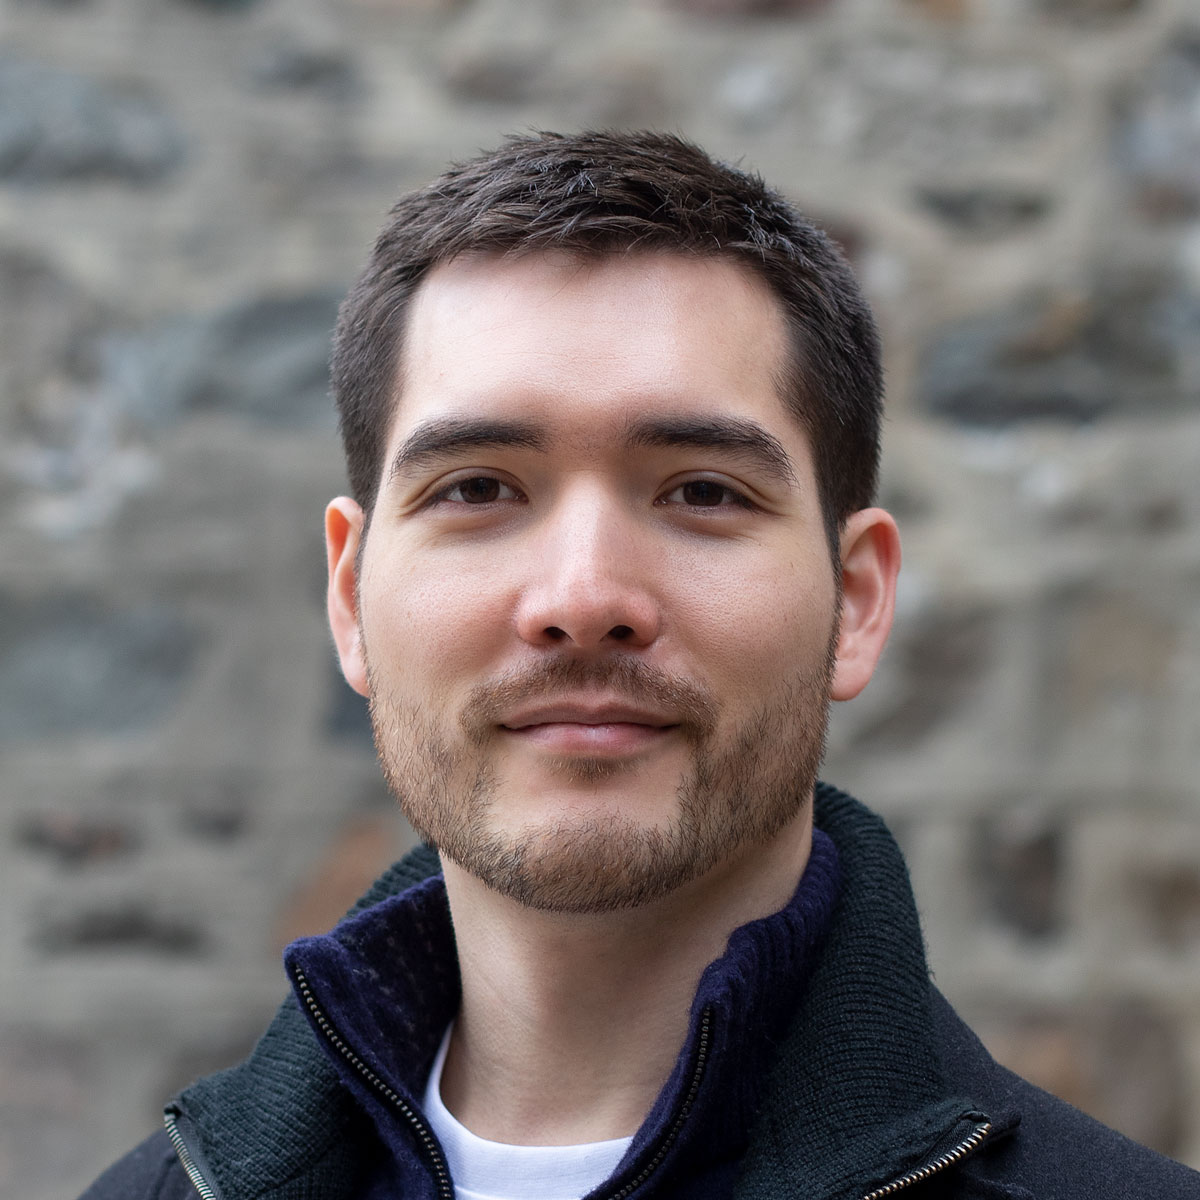
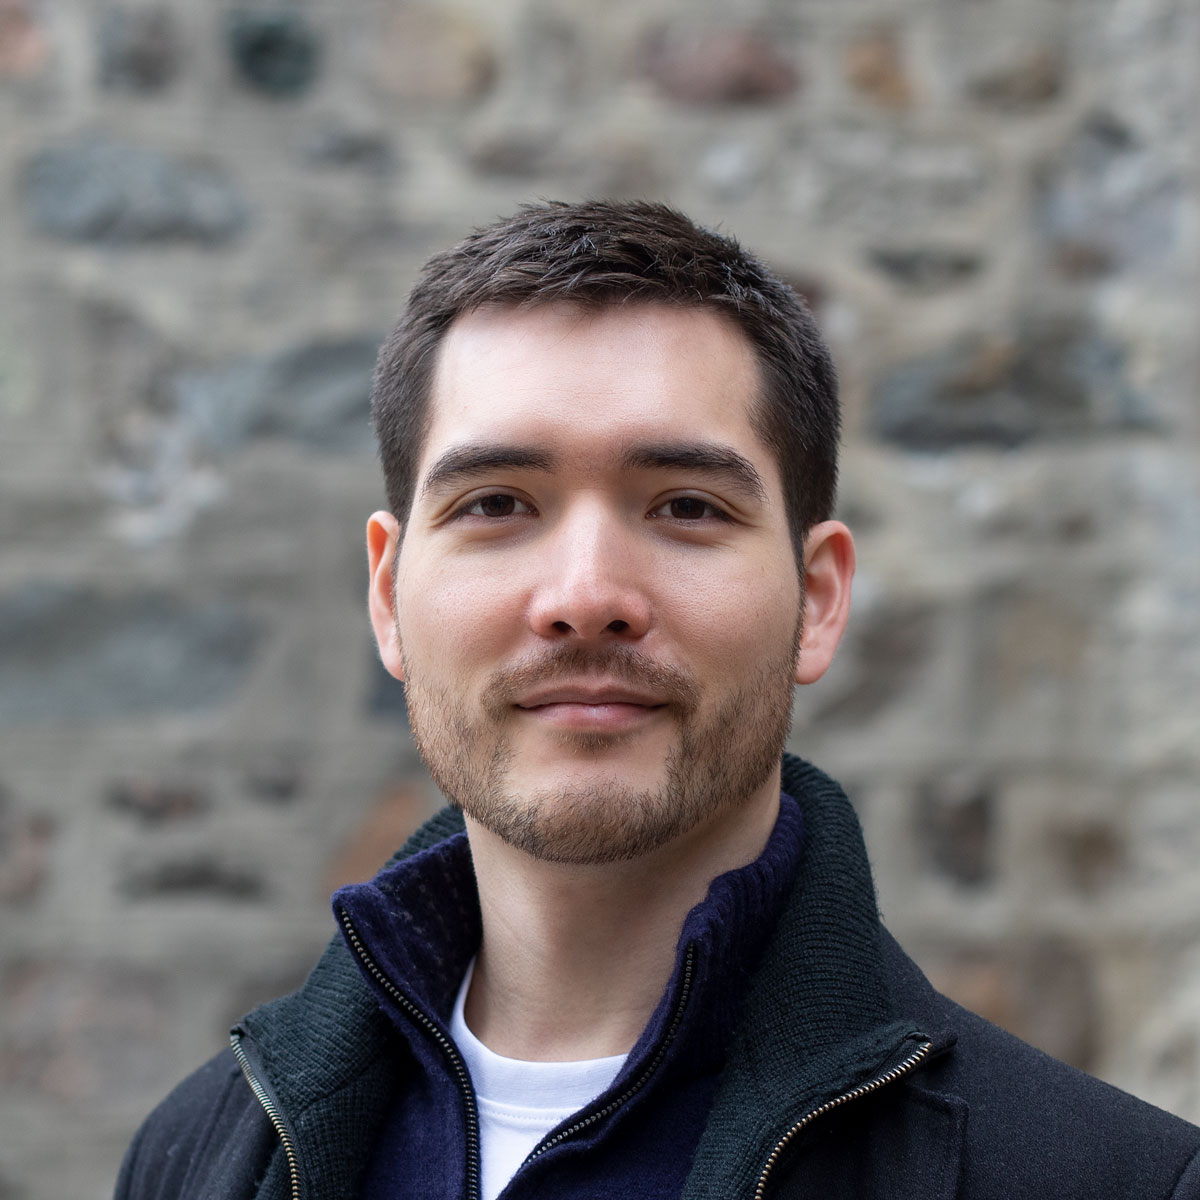
updated portrait and github link

diff --git a/jm-react-site/src/data/codeContent.js b/jm-react-site/src/data/codeContent.js
@@ -31,7 +31,7 @@ export const content = {
       {
         title: "Github",
         url:
-          "https://github.com/JeffMusgrave/jeff-musgrave-portfolio/tree/master/jm-react-site/src",
+          "https://github.com/JeffMusgrave/jeff-musgrave-portfolio/tree/master/jm-react-site",
       },
     ],
   },
